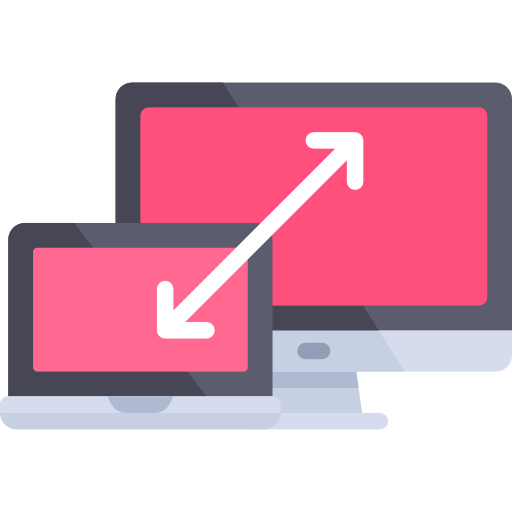
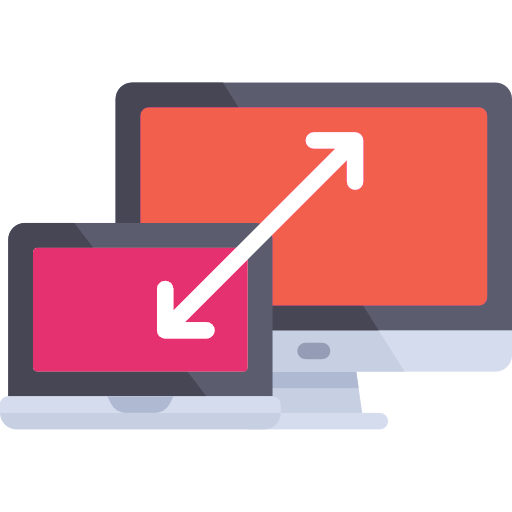
update GUI

Changed region(s): [[0.25, 0.1875, 0.9688, 0.5938], [0.0625, 0.4688, 0.5, 0.75]]

diff --git a/code/web/css/btn.css b/code/web/css/btn.css
@@ -8,7 +8,7 @@ a:has(>*.btn) {
     font-weight: 500;
     line-height: 36px;
     height: 36px;
-    color: #4285f4;
+    color: #ff8906;
     background-color: transparent;
     border: 1px solid #424242;
     cursor: pointer;
@@ -19,5 +19,5 @@ a:has(>*.btn) {
 }
 
 .btn:hover {
-    background-color: #64b5f63d;
+    background-color: #ffaa483b;
 }

diff --git a/code/web/support.html b/code/web/support.html
@@ -58,7 +58,7 @@
             border-top: 0;
             border-left: 0;
             border-right: 0;
-            border-bottom: 1px blue solid;
+            border-bottom: 2px #ff8906 solid;
             outline: 0;
             font-size: 1.5rem;
             height: 1.5rem;
